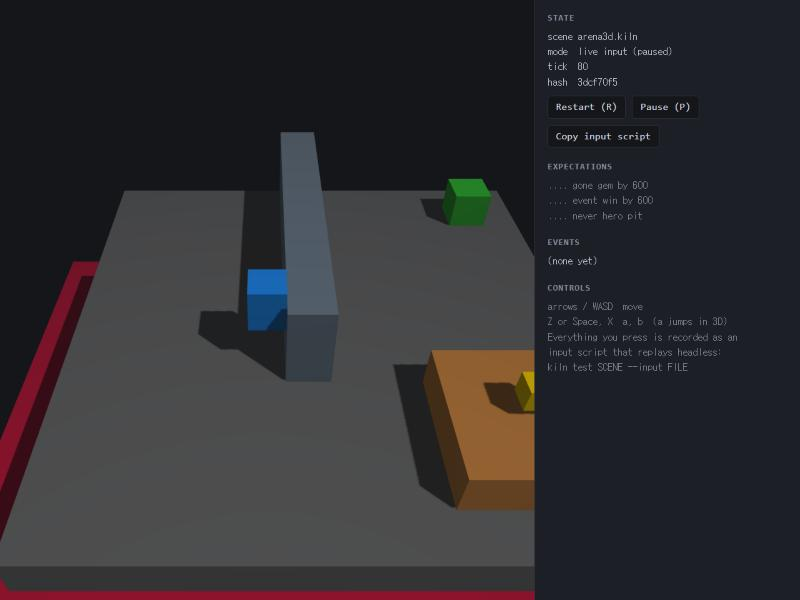
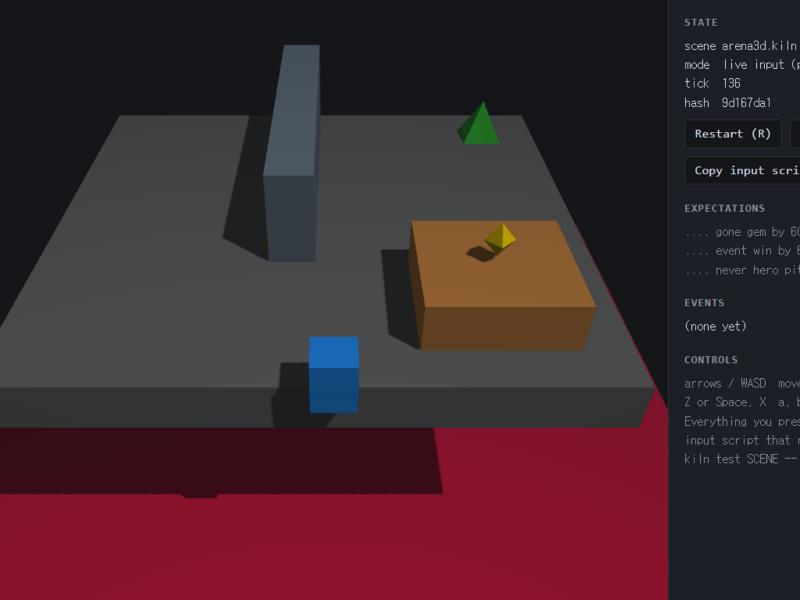
3D: draw OBJ meshes fitted to an entity's box
sprite gains a mesh field. OBJ is text, so meshes stay agent-writable.
Collision remains the box; the mesh is for drawing only.

diff --git a/web/gl.ts b/web/gl.ts
@@ -2,8 +2,13 @@
 // sun. No dependencies. The simulation's y axis points down; it is flipped here so that
 // "up" looks up.
 
-export interface Box3 { p: number[]; s: number[]; color: number[] }
-export interface Renderer3 { draw(boxes: Box3[], eye: number[], target: number[], fovDeg: number): void }
+/** A thing to draw: where its box is, how big, what color, and optionally the name of a mesh to draw inside it. */
+export interface Box3 { p: number[]; s: number[]; color: number[]; mesh?: string }
+export interface Renderer3 {
+  draw(boxes: Box3[], eye: number[], target: number[], fovDeg: number): void;
+  /** Register OBJ text under a name; boxes that ask for it are drawn as that mesh, fitted to their box. */
+  addMesh(name: string, obj: string): void;
+}
 
 const SUN = [0.45, 0.8, 0.4];
 const SHADOW_SIZE = 2048;
@@ -21,7 +26,9 @@ out vec4 v_shadow;
 void main() {
   vec3 w = a_pos * u_size + u_off;
   v_world = vec3(w.x, -w.y, w.z);
-  v_normal = vec3(a_normal.x, -a_normal.y, a_normal.z);
+  // Meshes live in a unit cube that is stretched to the box, so normals are un-stretched.
+  vec3 n = a_normal / u_size;
+  v_normal = vec3(n.x, -n.y, n.z);
   v_shadow = u_light * vec4(v_world, 1.0);
   gl_Position = u_vp * vec4(v_world, 1.0);
 }`;
@@ -77,6 +84,36 @@ function cube(): Float32Array {
   return new Float32Array(out);
 }
 
+/**
+ * OBJ text -> triangles (position + flat normal), scaled so the mesh's bounding box is
+ * the unit cube. OBJ has y up and the simulation has y down, so y is mirrored here and
+ * the winding swapped back, which keeps normals pointing outward.
+ */
+export function parseObj(text: string): Float32Array {
+  const v: number[][] = [], tris: number[][][] = [];
+  for (const line of text.split(/\r?\n/)) {
+    const t = line.trim().split(/\s+/);
+    if (t[0] === 'v') v.push([+t[1], +t[2], +t[3]]);
+    else if (t[0] === 'f') {
+      const idx = t.slice(1).map((x) => { const i = parseInt(x, 10); return i < 0 ? v.length + i : i - 1; });
+      for (let i = 1; i + 1 < idx.length; i++) tris.push([v[idx[0]], v[idx[i]], v[idx[i + 1]]]);
+    }
+  }
+  const lo = [0, 1, 2].map((a) => Math.min(...v.map((p) => p[a]))), hi = [0, 1, 2].map((a) => Math.max(...v.map((p) => p[a])));
+  const unit = (p: number[]): number[] => {
+    const u = p.map((x, a) => (hi[a] > lo[a] ? (x - lo[a]) / (hi[a] - lo[a]) : 0.5));
+    return [u[0], 1 - u[1], u[2]];
+  };
+  const out: number[] = [];
+  for (const tri of tris) {
+    if (tri.some((p) => !p || p.some(Number.isNaN))) continue;
+    const [a, c, b] = tri.map(unit);
+    const n = norm(cross(sub(b, a), sub(c, a)));
+    out.push(...a, ...n, ...b, ...n, ...c, ...n);
+  }
+  return new Float32Array(out);
+}
+
 const sub = (a: number[], b: number[]): number[] => [a[0] - b[0], a[1] - b[1], a[2] - b[2]];
 const cross = (a: number[], b: number[]): number[] => [a[1] * b[2] - a[2] * b[1], a[2] * b[0] - a[0] * b[2], a[0] * b[1] - a[1] * b[0]];
 const dot = (a: number[], b: number[]): number => a[0] * b[0] + a[1] * b[1] + a[2] * b[2];
@@ -128,14 +165,20 @@ export function makeRenderer3(canvas: HTMLCanvasElement): Renderer3 | null {
   };
   const main = program(VS, FS), depth = program(VS, FS_DEPTH);
 
-  const vao = gl.createVertexArray();
-  gl.bindVertexArray(vao);
-  gl.bindBuffer(gl.ARRAY_BUFFER, gl.createBuffer());
-  gl.bufferData(gl.ARRAY_BUFFER, cube(), gl.STATIC_DRAW);
-  gl.enableVertexAttribArray(0);
-  gl.vertexAttribPointer(0, 3, gl.FLOAT, false, 24, 0);
-  gl.enableVertexAttribArray(1);
-  gl.vertexAttribPointer(1, 3, gl.FLOAT, false, 24, 12);
+  interface Mesh { vao: WebGLVertexArrayObject | null; count: number }
+  const upload = (data: Float32Array): Mesh => {
+    const vao = gl.createVertexArray();
+    gl.bindVertexArray(vao);
+    gl.bindBuffer(gl.ARRAY_BUFFER, gl.createBuffer());
+    gl.bufferData(gl.ARRAY_BUFFER, data, gl.STATIC_DRAW);
+    gl.enableVertexAttribArray(0);
+    gl.vertexAttribPointer(0, 3, gl.FLOAT, false, 24, 0);
+    gl.enableVertexAttribArray(1);
+    gl.vertexAttribPointer(1, 3, gl.FLOAT, false, 24, 12);
+    return { vao, count: data.length / 6 };
+  };
+  const box = upload(cube());
+  const meshes = new Map<string, Mesh>();
 
   // Depth-only target the sun renders into.
   const map = gl.createTexture();
@@ -162,17 +205,22 @@ export function makeRenderer3(canvas: HTMLCanvasElement): Renderer3 | null {
       gl.uniform3fv(uOff, b.p);
       gl.uniform3fv(uSize, b.s);
       if (uColor) gl.uniform3fv(uColor, b.color);
-      gl.drawArrays(gl.TRIANGLES, 0, 36);
+      const m = (b.mesh && meshes.get(b.mesh)) || box;
+      gl.bindVertexArray(m.vao);
+      gl.drawArrays(gl.TRIANGLES, 0, m.count);
     }
   };
 
   return {
+    addMesh(name, obj) {
+      const data = parseObj(obj);
+      if (data.length) meshes.set(name, upload(data));
+    },
     draw(boxes, eye, target, fovDeg) {
       const dpr = window.devicePixelRatio || 1;
       const w = Math.round(canvas.clientWidth * dpr), h = Math.round(canvas.clientHeight * dpr);
       if (canvas.width !== w || canvas.height !== h) { canvas.width = w; canvas.height = h; }
       gl.enable(gl.DEPTH_TEST);
-      gl.bindVertexArray(vao);
 
       // The sun's box: centred on what the camera looks at, wide enough for the area around it.
       const t = [target[0], -target[1], target[2]], e = [eye[0], -eye[1], eye[2]];

diff --git a/web/player.ts b/web/player.ts
@@ -23,6 +23,17 @@ const canvas3 = $('view3d') as HTMLCanvasElement;
 // Created on first use, so 2D scenes never ask for a WebGL context.
 let gl3: Renderer3 | null | undefined;
 
+// Mesh files asked for so far. Each is fetched once and handed to the renderer when it arrives;
+// until then (or if it fails) the entity is drawn as its box.
+const meshAsked = new Set<string>();
+const wantMesh = (path: string): string => {
+  if (!meshAsked.has(path)) {
+    meshAsked.add(path);
+    fetch(new URL(path, GAME)).then((r) => (r.ok ? r.text() : '')).then((t) => { if (t) gl3?.addMesh(path, t); }).catch(() => {});
+  }
+  return path;
+};
+
 // CSS color name -> rgb 0..1, resolved by the browser and cached.
 const rgbCache = new Map<string, number[]>();
 const probe = document.createElement('canvas').getContext('2d', { willReadFrequently: true })!;
@@ -128,8 +139,12 @@ try {
       });
     }
     for (const id of world.query('pos', 'box')) {
-      const p = world.get(id, 'pos')!, b = world.get(id, 'box')!, color = (world.get(id, 'sprite')?.color as string) ?? 'white';
-      boxes.push({ p: [u(p.x), u(p.y), u(p.z)], s: [u(b.w), u(b.h), u(b.d)], color: rgb(color === 'white' ? (world.has(id, 'solid') ? '#59616e' : '#d7dbe2') : color) });
+      const p = world.get(id, 'pos')!, b = world.get(id, 'box')!, sp = world.get(id, 'sprite'), color = (sp?.color as string) ?? 'white';
+      boxes.push({
+        p: [u(p.x), u(p.y), u(p.z)], s: [u(b.w), u(b.h), u(b.d)],
+        color: rgb(color === 'white' ? (world.has(id, 'solid') ? '#59616e' : '#d7dbe2') : color),
+        mesh: sp?.mesh ? wantMesh(sp.mesh as string) : undefined,
+      });
     }
     const e = world.get(eyeId, 'eye')!, p = world.get(eyeId, 'pos')!, b = world.get(eyeId, 'box');
     const target = [u(p.x) + u(b?.w ?? 0) / 2, u(p.y) + u(b?.h ?? 0) / 2, u(p.z) + u(b?.d ?? 0) / 2];

diff --git a/src/world.ts b/src/world.ts
@@ -27,8 +27,8 @@ defineComponent('trigger', 'emits event when target (entity name or #tag) starts
   [f('target', 'str'), f('event', 'str'), f('action', 'str', 'none')]);
 defineComponent('tiles', 'grid of square cells at pos. rows follow the line, each indented 4 spaces, one character per cell. size: cell size. solid: characters that block movers. spawn: CHAR:PREFAB pairs, e.g. o:coin,@:hero, replaced by entities when the scene loads',
   [f('size', 'fx', 65536), f('solid', 'str', '#'), f('spawn', 'str', ''), f('depth', 'fx', 65536)]);
-defineComponent('sprite', 'appearance. glyph: character for the ASCII view. color: CSS color. image: file next to the scene (svg/png), drawn by the player',
-  [f('glyph', 'str', ''), f('color', 'str', 'white'), f('image', 'str', '')]);
+defineComponent('sprite', 'appearance. glyph: character for the ASCII view. color: CSS color. image: file next to the scene (svg/png), drawn in 2D. mesh: .obj file next to the scene, drawn in 3D fitted to the box',
+  [f('glyph', 'str', ''), f('color', 'str', 'white'), f('image', 'str', ''), f('mesh', 'str', '')]);
 defineComponent('eye', 'makes the player draw the scene in 3D: a perspective camera at this entity plus the offset, looking at the entity; ignored headless',
   [f('x', 'fx'), f('y', 'fx'), f('z', 'fx'), f('fov', 'int', 55)]);
 defineComponent('camera', 'the player view follows this entity and shows w x h world units; ignored headless', [f('w', 'fx'), f('h', 'fx')]);

diff --git a/tests/m1.test.ts b/tests/m1.test.ts
@@ -271,3 +271,22 @@ test('new: a fresh game folder checks, solves, and points an agent at the engine
   assert.match(read(join(dir, 'AGENTS.md'), 'utf8'), /cli\.ts guide/);
   assert.throws(() => newGame(dir), /exists and is not empty/);
 });
+
+test('mesh: OBJ text becomes unit-cube triangles with outward normals', async () => {
+  const { parseObj } = await import('../web/gl.ts');
+  const { readFileSync: read } = await import('node:fs');
+  const data = parseObj(read(ex('gem.obj'), 'utf8'));
+  assert.equal(data.length, 8 * 3 * 6);
+  for (let i = 0; i < data.length; i += 6) {
+    const p = [data[i], data[i + 1], data[i + 2]], n = [data[i + 3], data[i + 4], data[i + 5]];
+    assert.ok(p.every((x) => x >= 0 && x <= 1), `position ${p}`);
+    assert.ok(Math.abs(Math.hypot(...n) - 1) < 1e-5, `normal length ${n}`);
+  }
+  // Convex and centred, so every face normal must point away from the centre.
+  for (let i = 0; i < data.length; i += 18) {
+    const c = [0, 1, 2].map((a) => (data[i + a] + data[i + 6 + a] + data[i + 12 + a]) / 3 - 0.5);
+    assert.ok(c[0] * data[i + 3] + c[1] * data[i + 4] + c[2] * data[i + 5] > 0, `face ${i / 18} points inward`);
+  }
+  // A quad is split into two triangles; junk lines and bad indices are skipped.
+  assert.equal(parseObj('v 0 0 0\nv 1 0 0\nv 1 1 0\nv 0 1 0\nvn 0 0 1\nf 1/1/1 2/2/1 3/3/1 4/4/1\nf 1 2 99\n').length, 2 * 3 * 6);
+});

diff --git a/README.md b/README.md
@@ -16,7 +16,7 @@ Game engines assume a human looking at an editor window. An agent using them pay
 - **The engine can play its own levels.** `kiln solve` searches for an input that meets a scene's goals, so a level is shown to be finishable without anyone playing it.
 - **One MCP tool.** An agent connects over MCP and gets the whole engine as a single tool.
 
-![The 3D example in the browser player: lit boxes with shadows, and the live state, checks and controls beside it](docs/arena3d.jpg)
+![The 3D example in the browser player: lit boxes and OBJ meshes with shadows, and the live state, checks and controls beside it](docs/arena3d.jpg)
 
 ## Where it stands
 
@@ -24,11 +24,11 @@ Kiln is a few days old. The long-term aim is an engine that agents can take from
 
 | Works today | Not yet |
 |---|---|
-| Text scenes, 12 built-in components, levels drawn as character grids with prefabs | Meshes, materials, textures, shaders |
+| Text scenes, 12 built-in components, levels drawn as character grids with prefabs | Textures, materials, skeletal animation, shaders |
 | Fixed-point simulation on x, y and z; swept box collision; triggers that emit events and remove things (keys, doors, pickups) | Rotation, non-box shapes, joints |
 | `expect` checks with explanations on failure | Audio, animation, UI |
 | TypeScript scripts with a determinism check | Asset pipeline beyond single images |
-| Browser player: Canvas 2D, and lit, shadowed boxes in WebGL2 for 3D scenes | WebGPU renderer, images in 3D |
+| Browser player: Canvas 2D, and lit, shadowed boxes and OBJ meshes in WebGL2 for 3D scenes | WebGPU renderer, images in 3D |
 | `solve`: automatic search for a winning input |  |
 | `build`: export to a static web folder |  |
 | MCP server, CLI | Networking, desktop and mobile export |
@@ -171,7 +171,7 @@ entity floor
   solid
 ```
 
-`y` grows downward, so things above the floor have negative `y`. `--top` prints a floor plan (the x/z plane) instead of a screenshot. This is 3D for box worlds only: one sun with shadows, no meshes or textures yet.
+`y` grows downward, so things above the floor have negative `y`. `--top` prints a floor plan (the x/z plane) instead of a screenshot. A sprite can name an OBJ file (`sprite color=gold mesh=gem.obj`); OBJ is text, so an agent can write one. The mesh is drawn fitted to the entity's box, while collision stays the box. One sun with shadows; no textures or materials yet.
 
 ## Scripts
 
@@ -206,7 +206,7 @@ One measurement so far: the maze example, with its play-through and checks, is 7
 1. Connect a real agent over MCP and build a complete small game with it; fix what hurts.
 2. Animation, audio, a WebGPU renderer.
 3. Rotation and more collision shapes.
-4. 3D beyond boxes: meshes, PBR materials, more lights, a mesh format that stays readable.
+4. 3D: PBR materials and textures, more lights, rotation, collision beyond boxes.
 5. Export targets and networking built on the deterministic core (rollback, replays).
 
 ## Contributing
